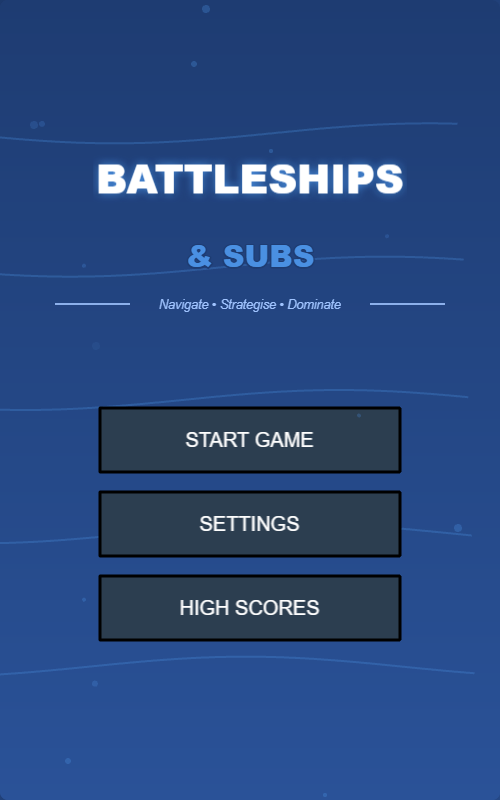
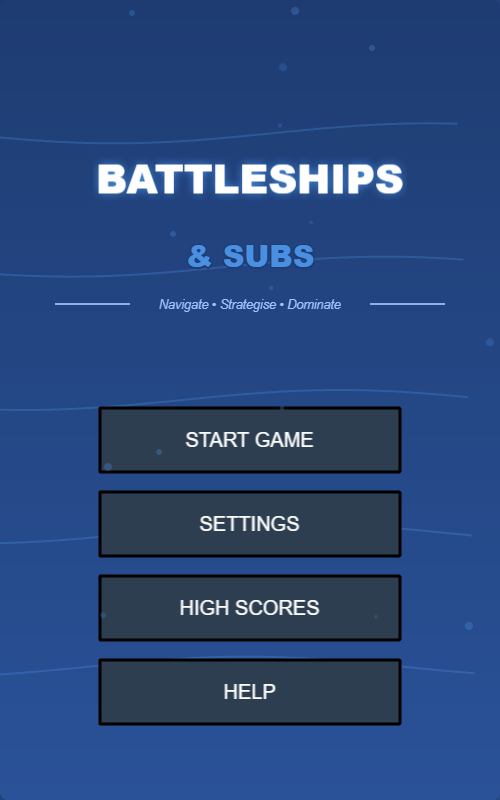
Week 6A: Move HELP button to main menu + show sunk enemy ships
Two UX improvements completed:

1. HELP Button Relocation:
   - Moved HELP button from GameScene (top-left) to TitleScene (main menu)
   - Added as 4th menu button with orange border (#f39c12)
   - Removed from GameScene top bar
   - Better UX: help accessible before starting game

2. Sunk Enemy Ships Visualization:
   - Enemy ships now visible when sunk with bright red cells (0xff0000)
   - Changed CELL_COLORS.SUNK from dark red (0x660000) to bright red
   - Added enemyShipSprites array to track enemy ship sprites
   - New method: renderEnemyShipSprite() - renders ship sprite on enemy grid
   - Integrated with normal attacks (handlePlayerAttack)
   - Integrated with Row Nuke attacks (executeRowNuke)
   - Proper cleanup in clearAllShipSprites()
   - All segments marked CELL.SUNK with red background

Technical changes:
- TitleScene.js:194: Added HELP button to menu
- TitleScene.js:330: Added help scene navigation
- GameScene.js:30: Changed SUNK color to bright red
- GameScene.js:49: Added enemyShipSprites array
- GameScene.js:1029: Render sprite when ship sunk (normal attack)
- GameScene.js:1319: Render sprites for ships sunk by Row Nuke
- GameScene.js:1503-1555: New renderEnemyShipSprite() method

Visual feedback: Player can now see exactly which ships they destroyed!

Testing:
- Title scene tests: 11 viewports passing (HELP button visible)
- Game scene tests: 11 viewports passing

🤖 Generated with [Claude Code](https://claude.com/claude-code)

diff --git a/src/scenes/GameScene.js b/src/scenes/GameScene.js
@@ -27,7 +27,7 @@ const CELL_COLORS = {
     ENEMY_EMPTY:  0xff6600,   // Orange
     HIT:          0xff0000,   // Red
     MISS:         0xcccccc,   // Light gray
-    SUNK:         0x660000    // Dark red
+    SUNK:         0xff0000    // Bright red (same as HIT, but for sunk ships)
 };
 
 /**
@@ -46,6 +46,7 @@ export class GameScene extends Phaser.Scene {
 
         // Ship sprite containers (Week 6A: Refactored to span multiple cells)
         this.playerShipSprites = [];  // Array of ship sprite objects {sprite, ship, orientation}
+        this.enemyShipSprites = [];   // Array of enemy ship sprite objects {sprite, ship, shipType, orientation}
 
         // Game managers
         this.playerFleet = null;
@@ -442,21 +443,6 @@ export class GameScene extends Phaser.Scene {
 
         this.uiElements.backButton = backBtn;
         this.uiElements.backText   = backText;
-
-        // Help button (top left, next to BACK)
-        const helpBtn = this.add.rectangle(155, buttonY, 90, 30, 0x2c3e50)
-            .setStrokeStyle(2, 0x3498db)  // Blue border
-            .setInteractive({ useHandCursor: true });
-        const helpText = this.add.text(155, buttonY, 'HELP', {
-            fontSize: '13px', fontFamily: 'Arial', fill: '#ffffff', fontWeight: 'bold'
-        }).setOrigin(0.5);
-
-        helpBtn.on('pointerover', () => helpBtn.setFillStyle(0x3498db));
-        helpBtn.on('pointerout',  () => helpBtn.setFillStyle(0x2c3e50));
-        helpBtn.on('pointerdown', () => this.scene.start('HelpScene'));
-
-        this.uiElements.helpButton = helpBtn;
-        this.uiElements.helpText   = helpText;
 
         // Score display (top right)
         this.uiElements.scoreText = this.add.text(width - 10, 15, 'SCORE: 0', {
@@ -1034,11 +1020,13 @@ export class GameScene extends Phaser.Scene {
         // Announce if sunk
         if (attackResult.sunk && attackResult.ship) {
             this.showSunkAnnouncement(`You sank their ${attackResult.ship.name}!`, true);
-            // Mark all segments of sunk ship
+            // Mark all segments of sunk ship with red background
             attackResult.ship.segments.forEach(seg => {
                 this.enemyCellStates[seg.row][seg.col] = CELL.SUNK;
                 this.refreshEnemyCellByState(seg.row, seg.col, CELL.SUNK);
             });
+            // Render enemy ship sprite on enemy grid
+            this.renderEnemyShipSprite(attackResult.ship);
         }
 
         // Announce Row Nuke unlock
@@ -1257,13 +1245,20 @@ export class GameScene extends Phaser.Scene {
         let totalHits = 0;
         let totalSinks = 0;
         const attackedCells = [];
+        const sunkShips = [];
 
         for (let c = 0; c < 10; c++) {
             const attackResult = this.enemyFleet.receiveAttack(row, c);
 
             if (!attackResult.duplicate && attackResult.hit) {
                 totalHits++;
-                if (attackResult.sunk) totalSinks++;
+                if (attackResult.sunk) {
+                    totalSinks++;
+                    // Track sunk ships (avoid duplicates)
+                    if (attackResult.ship && !sunkShips.find(s => s === attackResult.ship)) {
+                        sunkShips.push(attackResult.ship);
+                    }
+                }
             }
 
             const newState = attackResult.sunk ? CELL.SUNK : (attackResult.hit ? CELL.HIT : CELL.MISS);
@@ -1313,6 +1308,15 @@ export class GameScene extends Phaser.Scene {
                     duration: 600,
                     onComplete: () => text.destroy()
                 });
+            });
+
+            // Mark all segments of sunk ships and render sprites
+            sunkShips.forEach(ship => {
+                ship.segments.forEach(seg => {
+                    this.enemyCellStates[seg.row][seg.col] = CELL.SUNK;
+                    this.refreshEnemyCellByState(seg.row, seg.col, CELL.SUNK);
+                });
+                this.renderEnemyShipSprite(ship);
             });
 
             // Update game state
@@ -1501,6 +1505,70 @@ export class GameScene extends Phaser.Scene {
                 shipObj.sprite.destroy();
                 shipObj.sprite = null;
             }
+        });
+        this.enemyShipSprites.forEach(shipObj => {
+            if (shipObj.sprite) {
+                shipObj.sprite.destroy();
+                shipObj.sprite = null;
+            }
+        });
+    }
+
+    /**
+     * Render an enemy ship sprite when it's sunk (Week 6A).
+     * @param {object} ship - Sunk enemy ship object
+     */
+    renderEnemyShipSprite(ship) {
+        if (!this.currentLayout) return;
+
+        // Find ship type from ship properties
+        const shipType = Object.values(SHIP_TYPES).find(type =>
+            type.length === ship.length && type.name === ship.name
+        );
+
+        if (!shipType) {
+            console.warn(`renderEnemyShipSprite: Could not find ship type for ${ship.name}`);
+            return;
+        }
+
+        const spriteKey = shipType.sprite;
+        if (!this.textures.exists(spriteKey)) {
+            console.warn(`Sprite not found: ${spriteKey}`);
+            return;
+        }
+
+        // Calculate ship's center position based on actual grid placement
+        const segments = ship.segments;
+        const firstSeg = segments[0];
+        const lastSeg = segments[segments.length - 1];
+        const cellSize = this.currentLayout.cellSize;
+        const orientation = ship.orientation;
+
+        // Center = midpoint of first and last segment
+        const centerX = this.currentLayout.enemyX + ((firstSeg.col + lastSeg.col + 1) / 2) * cellSize;
+        const centerY = this.currentLayout.enemyY + ((firstSeg.row + lastSeg.row + 1) / 2) * cellSize;
+
+        // All sprites designed VERTICAL (tall × narrow)
+        const spriteWidth = cellSize * 0.8;                 // Narrow (1 cell width)
+        const spriteHeight = ship.length * cellSize * 0.9;  // Tall (ship length)
+
+        // Create sprite
+        const sprite = this.add.image(centerX, centerY, spriteKey);
+
+        // Set display size (always vertical dimensions matching sprite design)
+        sprite.setDisplaySize(spriteWidth, spriteHeight);
+
+        // Rotate 90° if ship is placed HORIZONTALLY (to lay it sideways)
+        if (orientation === 'horizontal') {
+            sprite.setAngle(90);
+        }
+
+        // Store sprite reference
+        this.enemyShipSprites.push({
+            ship: ship,
+            shipType: shipType,
+            orientation: orientation,
+            sprite: sprite
         });
     }
 
@@ -2047,8 +2115,6 @@ export class GameScene extends Phaser.Scene {
         }
         if (this.uiElements.backButton) this.uiElements.backButton.setPosition(55, buttonY);
         if (this.uiElements.backText)   this.uiElements.backText.setPosition(55, buttonY);
-        if (this.uiElements.helpButton) this.uiElements.helpButton.setPosition(155, buttonY);
-        if (this.uiElements.helpText)   this.uiElements.helpText.setPosition(155, buttonY);
         if (this.uiElements.scoreText) {
             this.uiElements.scoreText
                 .setPosition(width - 10, 15)

diff --git a/src/scenes/TitleScene.js b/src/scenes/TitleScene.js
@@ -190,14 +190,15 @@ export class TitleScene extends Phaser.Scene {
         const buttonConfig = [
             { text: 'START GAME', key: 'start', color: '#2ecc71' },
             { text: 'SETTINGS', key: 'settings', color: '#3498db' },
-            { text: 'HIGH SCORES', key: 'scores', color: '#e74c3c' }
+            { text: 'HIGH SCORES', key: 'scores', color: '#e74c3c' },
+            { text: 'HELP', key: 'help', color: '#f39c12' }
         ];
 
         const buttonWidth  = Math.min(Math.max(width * 0.6, 200), 400);
         // Cap height at 56px so buttons aren't oversized on large portrait screens
         const buttonHeight = Math.max(44, Math.min(56, height * 0.08));
         const spacing      = buttonHeight + 16;
-        const startY       = height * 0.55;
+        const startY       = height * 0.5;
 
         buttonConfig.forEach((config, index) => {
             const y = startY + (index * spacing);
@@ -324,6 +325,9 @@ export class TitleScene extends Phaser.Scene {
                 break;
             case 'scores':
                 this.scene.start('HighScoresScene');  // CHANGE FROM console.log
+                break;
+            case 'help':
+                this.scene.start('HelpScene');
                 break;
         }
     }
